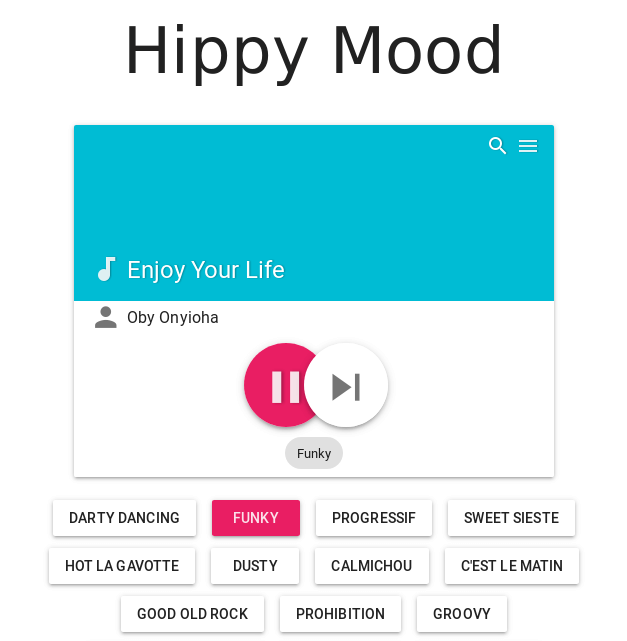
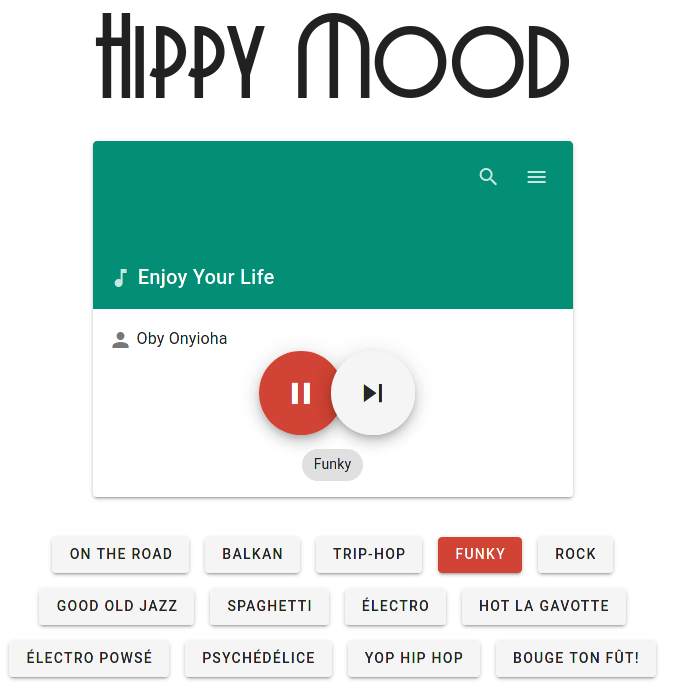
[TASK] February update - Hippymood project info updated with v2 image - Contact page updated - Two more example service on presentation page

diff --git a/_layouts/compress.html b/_layouts/compress.html
@@ -1,15 +1,16 @@
 <!DOCTYPE html>
 <html lang="{{ page.lang | default:site.lang | default:'en' | split:'-' | first | split:'_' | first }}"><!--
- __  __                __                                     __
-/\ \/\ \              /\ \             __                    /\ \
-\ \ \_\ \   __  __    \_\ \      __   /\_\      __       ___ \ \ \/'\
- \ \  _  \ /\ \/\ \   /'_` \   /'__`\ \/\ \   /'__`\    /'___\\ \ , <
-  \ \ \ \ \\ \ \_\ \ /\ \L\ \ /\  __/  \ \ \ /\ \L\.\_ /\ \__/ \ \ \\`\
-   \ \_\ \_\\/`____ \\ \___,_\\ \____\ _\ \ \\ \__/.\_\\ \____\ \ \_\ \_\
-    \/_/\/_/ `/___/> \\/__,_ / \/____//\ \_\ \\/__/\/_/ \/____/  \/_/\/_/
-                /\___/                \ \____/
-                \/__/                  \/___/
+  ____    __ __ _______     __
+ |___ \  / //_ | ____\ \   / /
+   __) |/ /_ | | |__  \ \_/ /__ _   _  ___
+  |__ <| '_ \| |___ \  \   / _ \ | | |/ _ \
+  ___) | (_) | |___) |  | |  __/ |_| |  __/
+ |____/ \___/|_|____/   |_|\___|\__, |\___|
+                                 __/ |
+                                |___/
 
-Powered by Hydejack v8.1.1 <https://hydejack.com/>
+Hello, le code est disponible par ici : https://github.com/3615Yeye/portfolio
+
+Basé sur Hydejack v8.1.1 <https://hydejack.com/>
 -->{% capture _LINE_FEED %}
 {% endcapture %}{% if site.compress_html.ignore.envs contains jekyll.environment %}{{ content }}{% else %}{% capture _content %}{{ content }}{% endcapture %}{% assign _profile = site.compress_html.profile %}{% if site.compress_html.endings == "all" %}{% assign _endings = "html head body li dt dd p rt rp optgroup option colgroup caption thead tbody tfoot tr td th" | split: " " %}{% else %}{% assign _endings = site.compress_html.endings %}{% endif %}{% for _element in _endings %}{% capture _end %}</{{ _element }}>{% endcapture %}{% assign _content = _content | remove: _end %}{% endfor %}{% if _profile and _endings %}{% assign _profile_endings = _content | size | plus: 1 %}{% endif %}{% for _element in site.compress_html.startings %}{% capture _start %}<{{ _element }}>{% endcapture %}{% assign _content = _content | remove: _start %}{% endfor %}{% if _profile and site.compress_html.startings %}{% assign _profile_startings = _content | size | plus: 1 %}{% endif %}{% if site.compress_html.comments == "all" %}{% assign _comments = "<!-- -->" | split: " " %}{% else %}{% assign _comments = site.compress_html.comments %}{% endif %}{% if _comments.size == 2 %}{% capture _comment_befores %}.{{ _content }}{% endcapture %}{% assign _comment_befores = _comment_befores | split: _comments.first %}{% for _comment_before in _comment_befores %}{% if forloop.first %}{% continue %}{% endif %}{% capture _comment_outside %}{% if _carry %}{{ _comments.first }}{% endif %}{{ _comment_before }}{% endcapture %}{% capture _comment %}{% unless _carry %}{{ _comments.first }}{% endunless %}{{ _comment_outside | split: _comments.last | first }}{% if _comment_outside contains _comments.last %}{{ _comments.last }}{% assign _carry = false %}{% else %}{% assign _carry = true %}{% endif %}{% endcapture %}{% assign _content = _content | remove_first: _comment %}{% endfor %}{% if _profile %}{% assign _profile_comments = _content | size | plus: 1 %}{% endif %}{% endif %}{% assign _pre_befores = _content | split: "<pre" %}{% assign _content = "" %}{% for _pre_before in _pre_befores %}{% assign _pres = _pre_before | split: "</pre>" %}{% assign _pres_after = "" %}{% if _pres.size != 0 %}{% if site.compress_html.blanklines %}{% assign _lines = _pres.last | split: _LINE_FEED %}{% capture _pres_after %}{% for _line in _lines %}{% assign _trimmed = _line | split: " " | join: " " %}{% if _trimmed != empty or forloop.last %}{% unless forloop.first %}{{ _LINE_FEED }}{% endunless %}{{ _line }}{% endif %}{% endfor %}{% endcapture %}{% else %}{% assign _pres_after = _pres.last | split: " " | join: " " %}{% endif %}{% endif %}{% capture _content %}{{ _content }}{% if _pre_before contains "</pre>" %}<pre{{ _pres.first }}</pre>{% endif %}{% unless _pre_before contains "</pre>" and _pres.size == 1 %}{{ _pres_after }}{% endunless %}{% endcapture %}{% endfor %}{% if _profile %}{% assign _profile_collapse = _content | size | plus: 1 %}{% endif %}{% if site.compress_html.clippings == "all" %}{% assign _clippings = "html head title base link meta style body article section nav aside h1 h2 h3 h4 h5 h6 hgroup header footer address p hr blockquote ol ul li dl dt dd figure figcaption main div table caption colgroup col tbody thead tfoot tr td th" | split: " " %}{% else %}{% assign _clippings = site.compress_html.clippings %}{% endif %}{% for _element in _clippings %}{% assign _edges = " <e;<e; </e>;</e>;</e> ;</e>" | replace: "e", _element | split: ";" %}{% assign _content = _content | replace: _edges[0], _edges[1] | replace: _edges[2], _edges[3] | replace: _edges[4], _edges[5] %}{% endfor %}{% if _profile and _clippings %}{% assign _profile_clippings = _content | size | plus: 1 %}{% endif %}{{ _content }}{% if _profile %} <table id="compress_html_profile_{{ site.time | date: "%Y%m%d" }}" class="compress_html_profile"> <thead> <tr> <td>Step <td>Bytes <tbody> <tr> <td>raw <td>{{ content | size }}{% if _profile_endings %} <tr> <td>endings <td>{{ _profile_endings }}{% endif %}{% if _profile_startings %} <tr> <td>startings <td>{{ _profile_startings }}{% endif %}{% if _profile_comments %} <tr> <td>comments <td>{{ _profile_comments }}{% endif %}{% if _profile_collapse %} <tr> <td>collapse <td>{{ _profile_collapse }}{% endif %}{% if _profile_clippings %} <tr> <td>clippings <td>{{ _profile_clippings }}{% endif %} </table>{% endif %}{% endif %}</html>

diff --git a/projets/hippymood.md b/projets/hippymood.md
@@ -8,7 +8,7 @@ hide_description: true
 
 Appli web de lecture de musique, organisé en playlist par humeur.
 
-![Capture d'écran d'écoute de musique avec Hippy Mood](/assets/img/Hippymood.png){:data-size="627x641"}
+![Capture d'écran d'écoute de musique avec Hippy Mood](/assets/img/Hippymood.png){:data-size="675x684"}
 
 Pas complètement satisfait des différents lecteurs de musique que j'ai pu essayer, je voulais un lecteur répondant à ces critères :
 
@@ -19,6 +19,6 @@ Pas complètement satisfait des différents lecteurs de musique que j'ai pu essa
 
 Pour joindre l'utile à l'agréable je me forme en même temps aux technologies web repérées lors de ma veille technologique.
 
-[Lien vers la démo](https://hippymood.3615yeye.info){:target="_blank"} (pas responsive pour le moment)
+[Lien vers la démo](https://hippymood.3615yeye.info){:target="_blank"}
 
 [Lien vers le code source sur Github](https://github.com/3615Yeye/Hippymood){:target="_blank"}

diff --git a/index.md b/index.md
@@ -15,6 +15,8 @@ A la suite de 3 années au Département de Maine-et-Loire, je deviens indépenda
 Voici des exemples de missions que j'ai réalisé :
 
 * Développement de sites et d'extensions Typo3
+* Intégration responsive à partir de maquette Photoshop
+* Développement d'un thème WordPress léger, pour améliorer le SEO
 * Administration et configuration d'extension pour des sites Typo3 
 * Intégration d'un template HTML/CSS/JS statique pour le rendre dynamique avec le CMS Typo3
 * Développement d'interface web dynamique avec la librairie Vue.js
@@ -25,7 +27,7 @@ Principalement développeur backend, les besoins de mon employeur et ma curiosit
 
 ## Back-end
 
-PHP : CMS Typo3
+PHP : CMS Typo3, CMS WordPress
 
 Javascript : Node.js, Express
 

diff --git a/contact.md b/contact.md
@@ -5,9 +5,9 @@ order: 2
 
 # Contact
 
-Envoyez-moi un mail en [cliquant ici](mailto:r.lepivaingt@gmail.com)
+Envoyez-moi un mail à [r.lepivaingt {at} gmail.com](mailto:r.lepivaingt@gmail.com)
 
-[Mon profil Malt](https://www.malt.fr/profile/ronanlepivaingt){:target="_blank"} : Plateforme de mise en relation d'entreprises et de travailleurs indépendants
+Venez visiter [mon profil Malt](https://www.malt.fr/profile/ronanlepivaingt){:target="_blank"}, plateforme de mise en relation d'entreprises et de travailleurs indépendants
 {::comment}
 ![Contact Malt](/assets/img/contact/malt_logo.svg)
 {:/comment}

diff --git a/projets/minitel.md b/projets/minitel.md
@@ -64,6 +64,7 @@ echo 'Test affichage minitel' > /dev/ttyUSB0
 ```
 
 [Photo du résultat d'un echo]
+![Photo bis de test PhotoSwipe](/assets/img/Minitel_Front_2_SD2.jpg){:data-size="1800x1200"}
 
 ## Software
 
